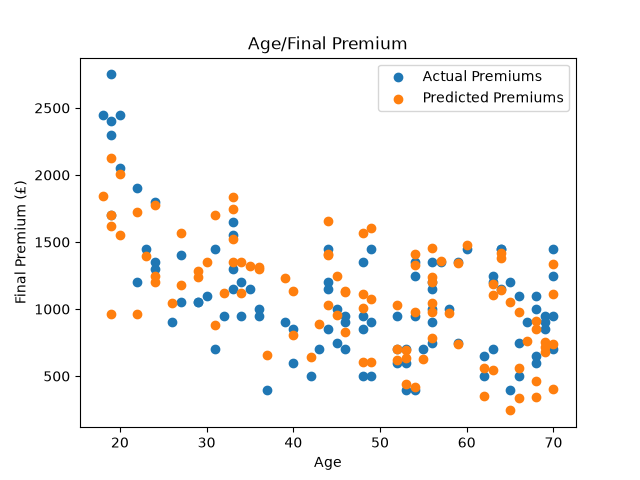
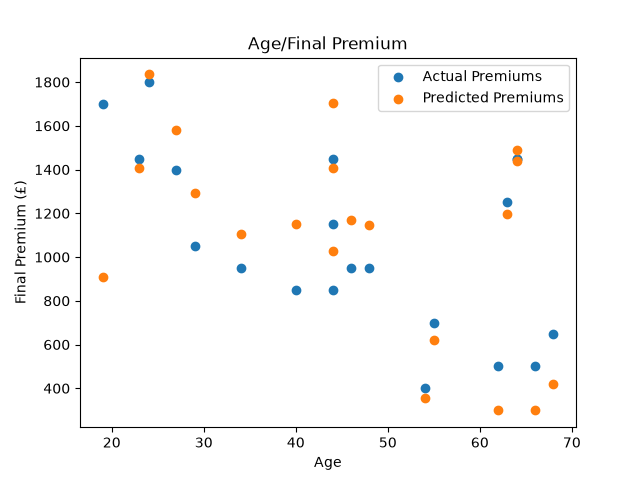
finish

diff --git a/analysis.py b/analysis.py
@@ -4,20 +4,40 @@ import matplotlib.pyplot as plt # plt short name for matplotlib
 from sklearn.linear_model import LinearRegression
 # sklearn.linear_model part original scikit-learn that deals with models
 # LinearRegression only using linearRegression in that toolbx
+from sklearn.model_selection import train_test_split 
+# train_test_split is a function that splits data into a teaching and testing pile
+# this allows us to test the model on data it has never seen before
+from sklearn.metrics import r2_score, mean_squared_error
+# r2_score and mean_squared_error are functions that calculate how good the model is
+# r2_score = R² (how much of the pattern we captured)
+# mean_squared_error = calculating the RMSE (how wrong we are, in £)
+
 data = pd.read_excel("InsurancePricingData_v1.xlsx")
 pd.set_option("display.max_columns",None)
 print(data.head())
 print(data["FinalPremium"].mean()) #calculating the means for all Final Premiums
 X = data[["Age", "Years Driving", "Previous Claims", "Annual Mileage"]]
 Y = data["FinalPremium"]
-model = LinearRegression()
-model.fit(X, Y)
-predicted_premium = model.predict(X)
 
-plt.scatter(data["Age"], data["FinalPremium"], label="Actual Premiums") 
+# spliting customers into 80% to train and 20% to test on
+# random_state=40 just makes the split the same every time we run it,
+# so our results are repeatable (40 is arbitrary — any number works)
+X_train, X_test, Y_train, Y_test = train_test_split(
+    X, Y, test_size=0.2, random_state=40
+)
+model = LinearRegression()
+model.fit(X_train, Y_train)
+predicted_premium = model.predict(X_test)
+
+r2 = r2_score(Y_test, predicted_premium)
+rmse = mean_squared_error(Y_test, predicted_premium) ** 0.5
+print(f"R²: {r2:.3f}")
+print(f"RMSE: £{rmse:.2f}")
+
+plt.scatter(X_test["Age"], Y_test, label="Actual Premiums") 
 # scatter means plotting dots as customers 
 # plt.plot(data["Age"], predicted_premium)
-plt.scatter(data["Age"], predicted_premium, label="Predicted Premiums")
+plt.scatter(X_test["Age"], predicted_premium, label="Predicted Premiums")
 
 plt.xlabel("Age")
 plt.ylabel("Final Premium (£)")
